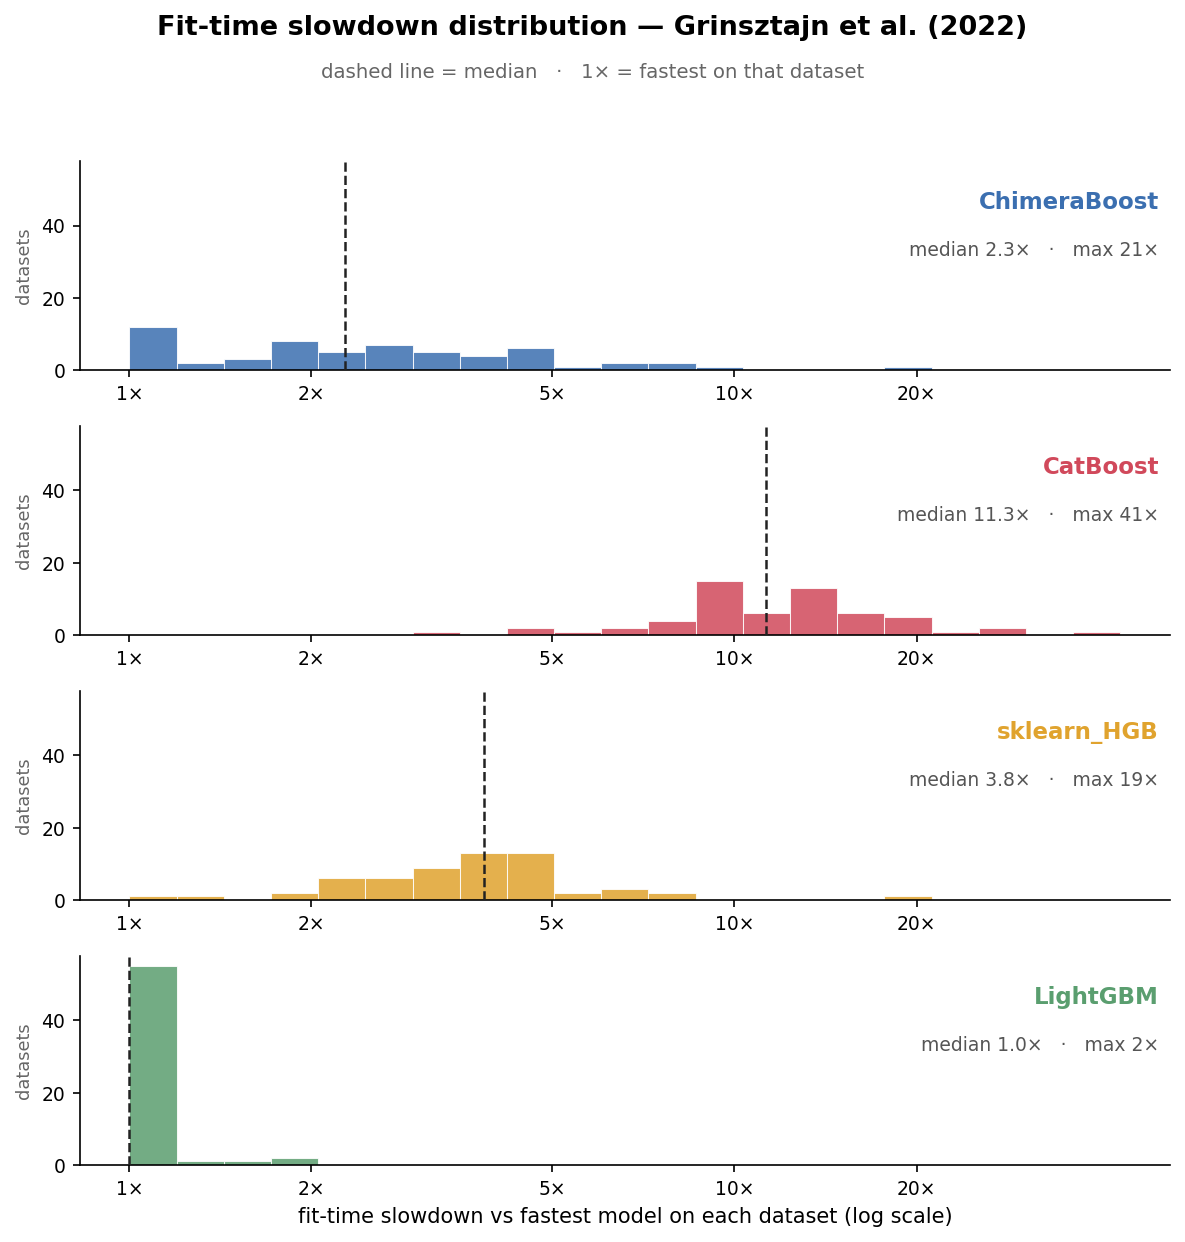
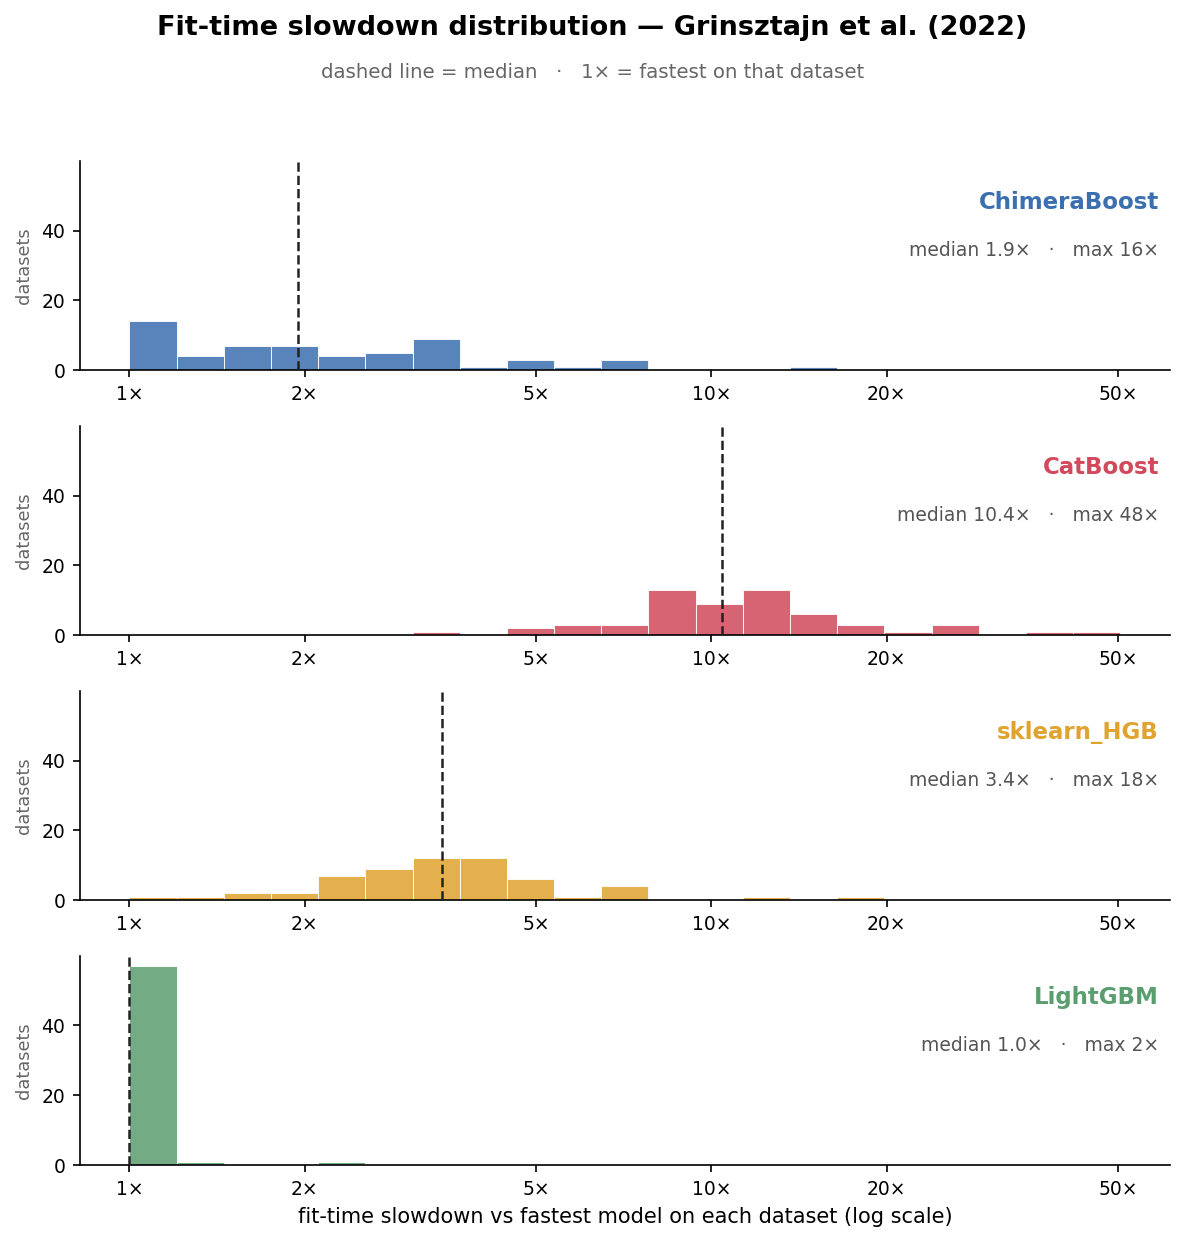
Exempt empty children from min_child_weight veto (fix oblivious depth cap)
The oblivious split was vetoed whenever ANY leaf would gain an EMPTY child (a
pure leaf, all its samples one way) -- normal in symmetric trees (cf. CatBoost).
One pure leaf blocked the whole shared level, so effective tree depth self-capped
~4-6 regardless of the depth arg, and large interaction-heavy datasets (pol)
stalled ~79% of sklearn with no way to improve via depth. Now only a SPARSE
non-empty child (0 < hessian mass < min_child_weight) is illegal; empty children
are exempt. Defaults unchanged (depth=6, min_child_weight=1).

Full Grinsztajn sign test vs baseline, ChimeraBoost: reg RMSE 26W/6L/4T
(95.7->98.0%, now beats sklearn & LightGBM), Bin F1 19W/1L (98.7->99.2%),
Bin Brier 18W/4L (94.2->95.7%), and FASTER (3.2x->2.7x: more expressive trees
early-stop sooner). Casualties (depth is a real lever now -> a few datasets
prefer shallow): Brazilian_houses -16..-21%, cpu_act/sulfur minor -- not chased.

Test renamed test_min_child_weight_regularizes_sparse_leaves: asserts the
corrected property (mcw regularizes sparse leaves at fixed depth; depth is a real
lever), with a history note so the depth-cap assertion is not reintroduced.

diff --git a/tests/test_chimeraboost.py b/tests/test_chimeraboost.py
@@ -207,10 +207,19 @@ def test_thread_count_does_not_change_predictions():
     assert np.allclose(a.predict(Xte), b.predict(Xte))
 
 
-def test_min_child_weight_controls_depth_overfitting():
-    """With min_child_weight active, increasing depth should NOT degrade test
-    accuracy (the constraint stops growth before sparse leaves overfit). This is
-    the property that fixes the oblivious-tree depth anomaly."""
+def test_min_child_weight_regularizes_sparse_leaves():
+    """min_child_weight regularizes by forbidding SPARSE non-empty leaves, so at a
+    fixed (deep) depth, raising it reduces overfitting.
+
+    History (read before changing): an earlier version asserted that mcw *caps
+    depth* -- that depth 8 ~= depth 6 because growth stops. That encoded a BUG.
+    The oblivious veto rejected a shared split whenever any leaf gained an EMPTY
+    child (a pure leaf, all samples one way), which is normal in symmetric trees
+    (cf. CatBoost). One pure leaf vetoed the whole level, so effective depth
+    self-capped ~4-6 regardless of the `depth` arg, and large interaction-heavy
+    datasets (e.g. pol) were stuck ~79% of sklearn with no way to improve. The
+    fix exempts empty children (only 0 < mass < mcw is illegal). depth is a real
+    lever again; mcw still guards sparse leaves. Do NOT reassert the depth cap."""
     from sklearn.datasets import make_regression
     X, y = make_regression(n_samples=4000, n_features=30, n_informative=20,
                            noise=20, random_state=1000)
@@ -223,11 +232,14 @@ def test_min_child_weight_controls_depth_overfitting():
                                   random_state=0).fit(Xf, yf, eval_set=(Xv, yv))
         return np.sqrt(np.mean((yte - m.predict(Xte)) ** 2))
 
-    # Unconstrained (mcw=1): deeper overfits -> depth 8 clearly worse than depth 4.
+    # depth is a real lever: unconstrained (mcw=1), deeper overfits this noisy
+    # target -> depth 8 clearly worse than depth 4.
     assert rmse_at(8, 1) > rmse_at(4, 1)
-    # Constrained (mcw=20): depth 8 should be no worse than a small tolerance
-    # above depth 6 -- growth is capped, so extra depth is harmless.
-    assert rmse_at(8, 20) <= rmse_at(6, 20) + 0.5
+    # mcw regularizes sparse leaves: at the same deep depth, a strong mcw sharply
+    # reduces the overfit a weak one allows.
+    assert rmse_at(8, 80) < rmse_at(8, 1)
+    # ...and it is monotone in the right direction (more mass -> less overfit).
+    assert rmse_at(8, 80) <= rmse_at(8, 20)
 
 
 def test_min_child_weight_param_plumbing():

diff --git a/chimeraboost/tree.py b/chimeraboost/tree.py
@@ -58,10 +58,12 @@ def _best_split(hist, n_bins_per_feature, l2, feat_mask, min_child_weight,
     same way in every current leaf. Gain is summed across leaves. Features with
     feat_mask[f] == 0 are skipped (column subsampling).
 
-    A threshold is legal only if *every* non-empty leaf keeps at least
-    min_child_weight hessian mass on both sides; otherwise it is rejected
-    outright (an illegal split in one leaf is illegal for the shared level).
-    This is what stops growth and prevents sparse-leaf overfitting.
+    A threshold is legal unless some leaf would gain a *sparse non-empty* child
+    (0 < hessian mass < min_child_weight) -- that is the sparse-leaf overfit risk,
+    and since the split is shared it is rejected for the whole level. Children
+    that come out EMPTY (a leaf whose samples all go one way) are exempt: pure
+    leaves are normal in an oblivious tree and must not block the shared split,
+    or effective depth caps far below what the data supports.
     """
     n_features = hist.shape[0]
     feat_gain = np.full(n_features, -np.inf)
@@ -102,7 +104,17 @@ def _best_split(hist, n_bins_per_feature, l2, feat_mask, min_child_weight,
                 if Ht[l] > 0.0:
                     hl = HL[l]
                     hr = Ht[l] - hl
-                    if hl < min_child_weight or hr < min_child_weight:
+                    # Empty children are exempt: a leaf sending ALL its samples
+                    # one way (hl==0 or hr==0) is simply not subdivided by this
+                    # shared split -- a normal, harmless event in an oblivious
+                    # tree (every level has pure leaves). Only a genuinely SPARSE
+                    # non-empty child (0 < mass < min_child_weight) is the
+                    # sparse-leaf overfit risk the constraint guards against.
+                    # Vetoing on empty children instead capped effective depth
+                    # far below what the data supports (one pure leaf blocked the
+                    # whole shared level), which is the depth anomaly this fixes.
+                    if (hl > 0.0 and hl < min_child_weight) or \
+                       (hr > 0.0 and hr < min_child_weight):
                         legal = False
                         break
                     gl = GL[l]